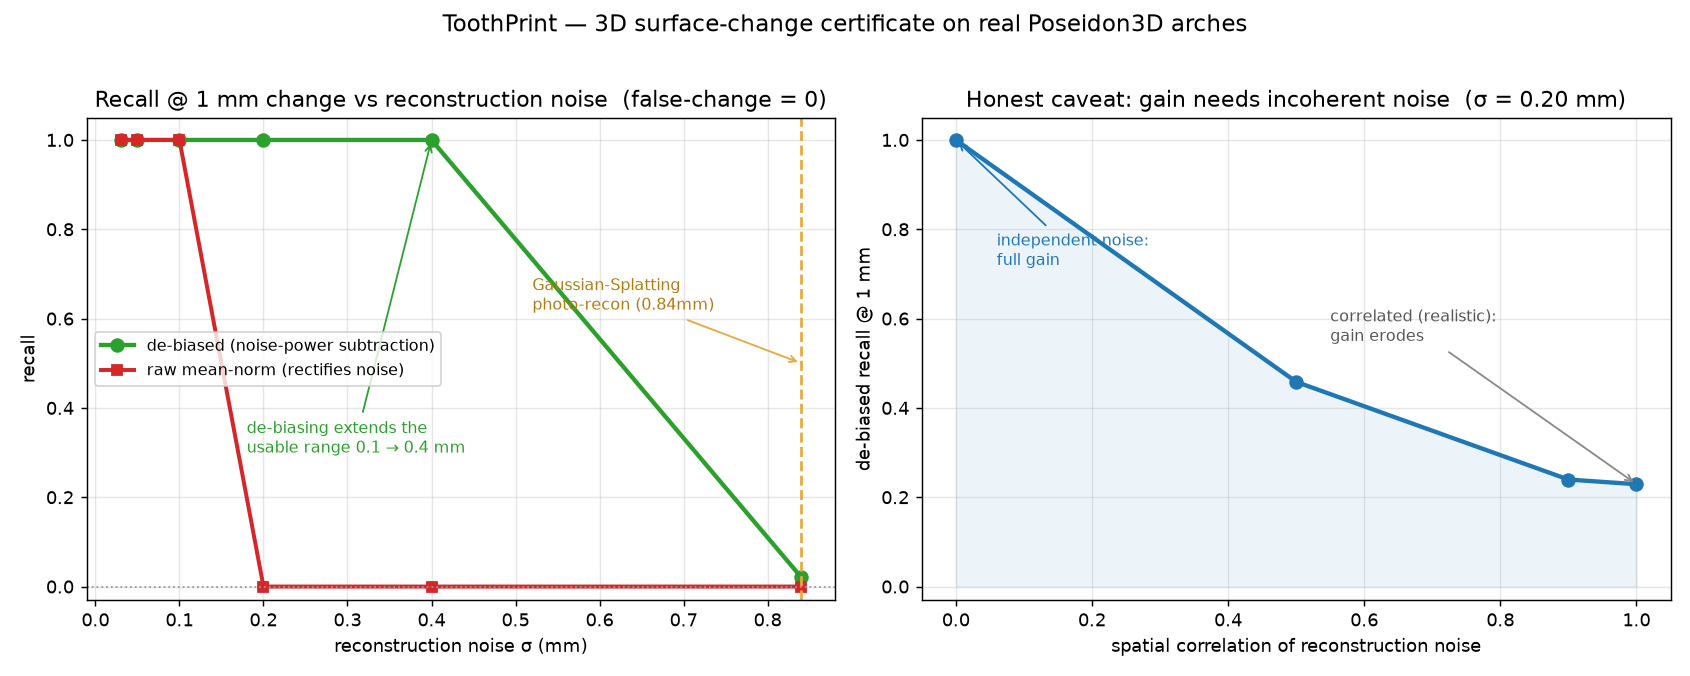
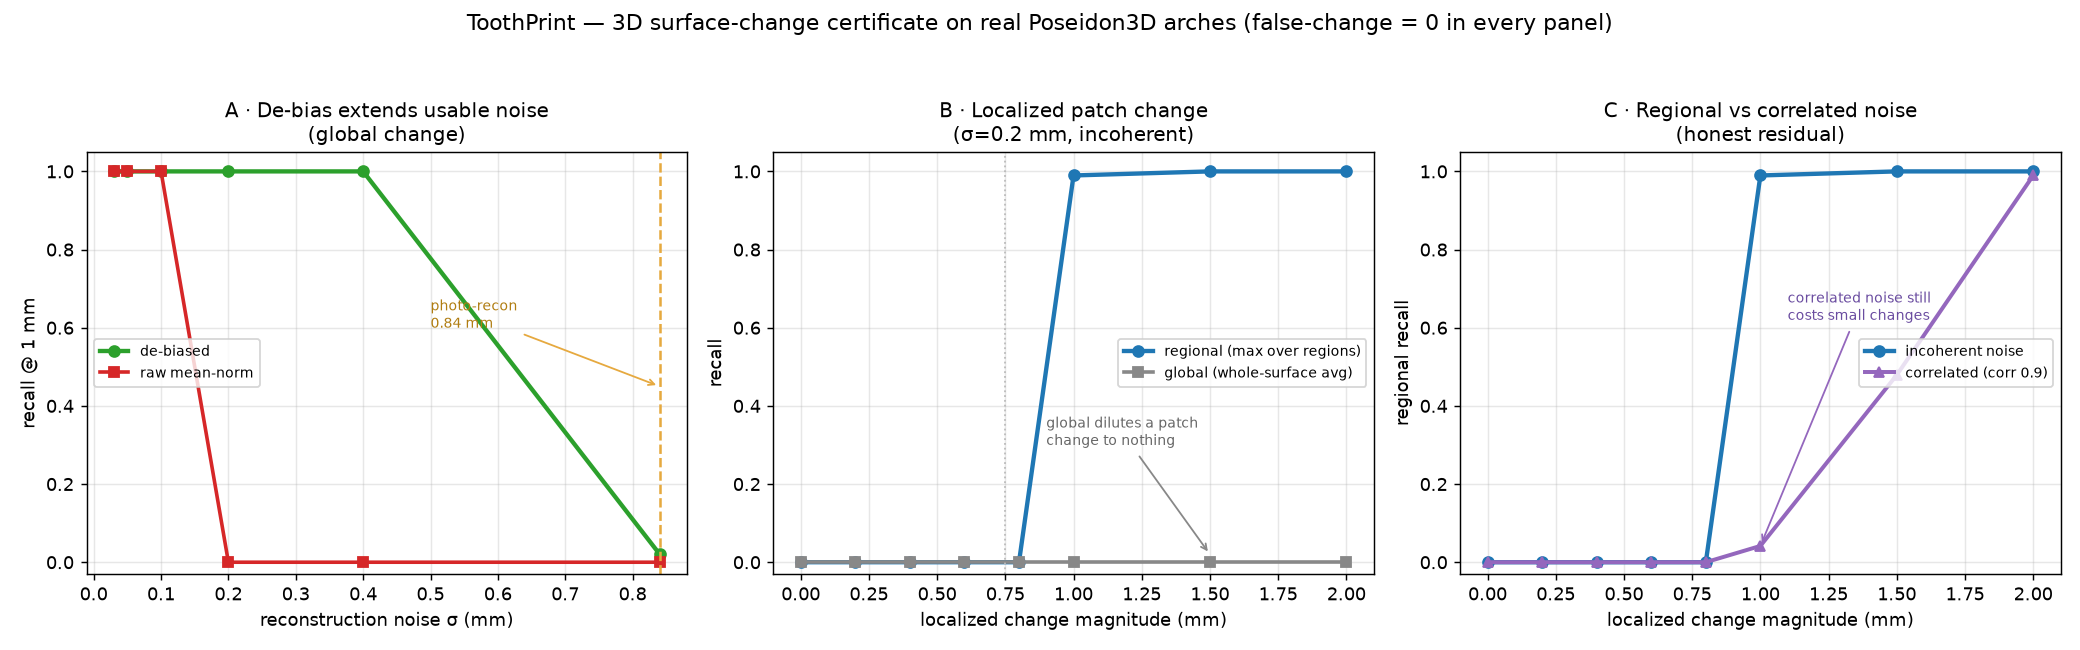
Surface: regional localized-change detection (recovers what global dilutes)
A real lesion (resorption, caries, a new restoration) moves a *patch* of the
surface, so a whole-surface average dilutes the signal across the unchanged
majority and a 1mm localized change reads as ~0 -- global recall 0.00. Add
regional detection: assign_regions (farthest-point partition into K=12 spatial
regions) + regional_displacements (de-biased displacement per region); the change
statistic is the max over regions, conformally calibrated on the max over stable
pairs so the false-change rate stays <= alpha despite the maximisation.

On real Poseidon3D arches (sigma=0.2mm, localized 1mm change):
- global de-biased recall 0.00 -> regional 0.99 (and it reports WHICH region)
- robust to correlated noise for larger changes: regional 1.5mm recall 0.48 at
  correlation 0.9 vs global's 0.00
- specificity 0% false-change at every noise level, correlation, and region count

Honest residual kept: a *small* (1mm) localized change under heavy correlated
noise is still hard (0.04). 3-panel evidence figure + REPORT/README/web/governance
refreshed. 90 tests, 100% coverage; mirrored to dentalmapcert.surface_error.

diff --git a/index.html b/index.html
@@ -167,15 +167,15 @@
       </div>
       <div class="pillar-body">
         <figure class="shot reveal">
-          <img src="assets/surface_certificate.png" alt="Recall for a 1mm surface change vs reconstruction noise: de-biasing extends the usable range to 0.4mm at zero false-change, with the honest caveat that correlated noise erodes the gain." loading="lazy" />
-          <figcaption>De-biasing the displacement (subtracting the reconstruction-noise power) extends the usable reconstruction noise from 0.1 mm to <strong>0.4 mm</strong> at a <strong>0%</strong> false-change rate. Honest caveat (right): the gain assumes spatially incoherent noise and erodes under correlated reconstruction error.</figcaption>
+          <img src="assets/surface_certificate.png" alt="Three panels: de-biasing extends usable reconstruction noise to 0.4mm; a regional max statistic recovers a localized patch change that a whole-surface average dilutes to zero; the honest residual is small changes under correlated noise. Zero false-change throughout." loading="lazy" />
+          <figcaption><strong>A</strong> De-biasing (subtracting the reconstruction-noise power) extends the usable noise from 0.1 to <strong>0.4 mm</strong>. <strong>B</strong> A <strong>regional</strong> max statistic recovers a <em>localized</em> patch change that a whole-surface average dilutes to <strong>0</strong> (regional <strong>0.99</strong> vs global 0.00) — and says where it is. <strong>C</strong> Honest residual: heavy correlated noise still costs small changes. <strong>0%</strong> false-change in every panel.</figcaption>
         </figure>
         <div class="pillar-detail">
           <div class="metric-row">
-            <div class="metric"><span class="metric-k mono">Change certified</span><span class="metric-v mono">≥0.8 mm</span></div>
+            <div class="metric"><span class="metric-k mono">Localized recall</span><span class="metric-v mono">0.99</span></div>
             <div class="metric"><span class="metric-k mono">Usable recon noise</span><span class="metric-v mono">0.4 mm</span></div>
             <div class="metric"><span class="metric-k mono">False-change</span><span class="metric-v mono">0.000</span></div>
-            <div class="metric"><span class="metric-k mono">Radius cut</span><span class="metric-v mono">~6×</span></div>
+            <div class="metric"><span class="metric-k mono">Global avg recall</span><span class="metric-v mono">0.00</span></div>
           </div>
           <p class="how">
             Reconstruction (<strong>3D Gaussian Splatting</strong>, runs on an 8&nbsp;GB GPU) →